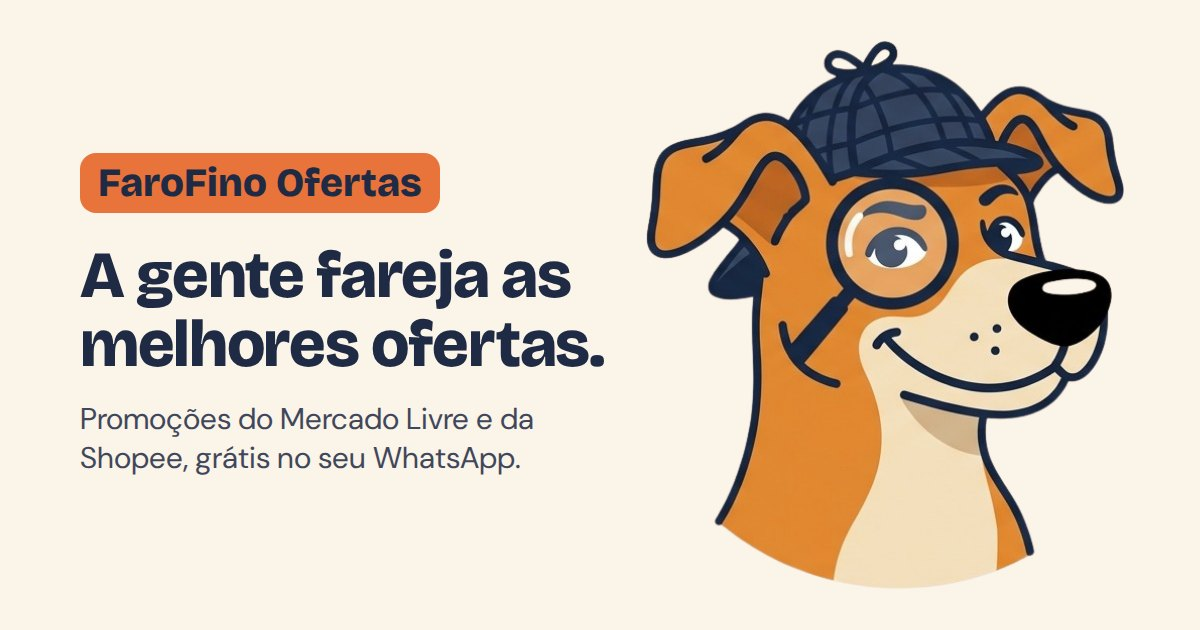
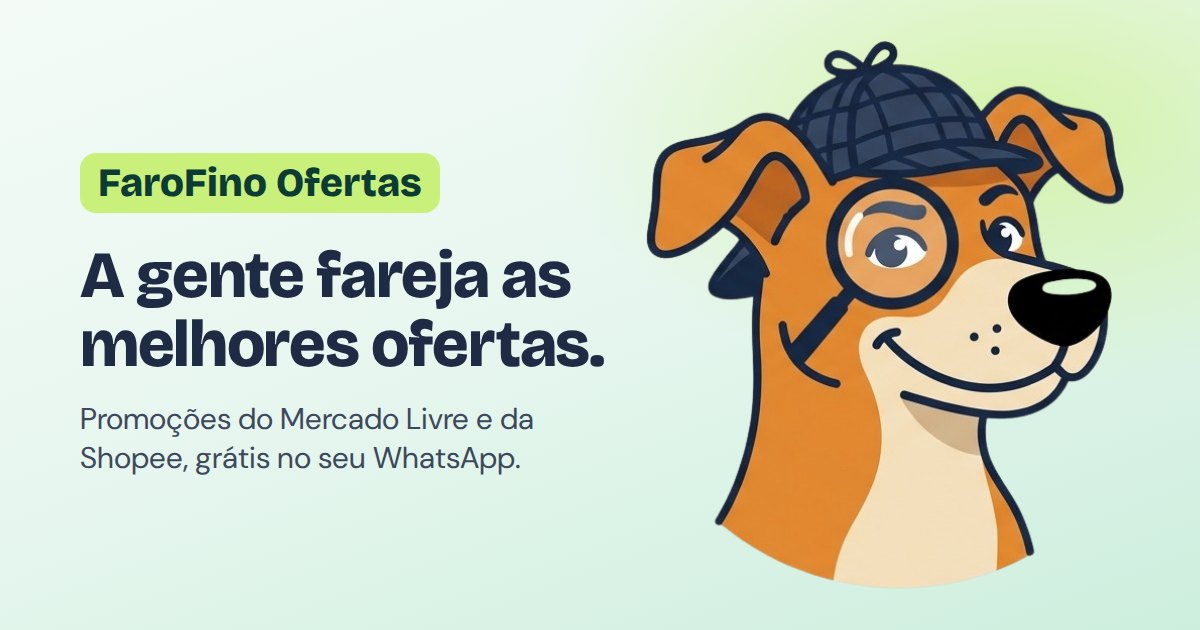
Troca a paleta para tons de verde
Primeira dobra em menta com brilho verde-limão, botões em verde-esmeralda
com texto branco, selos de desconto em verde-limão, Sem mistério e
chamada final em verde-floresta. Imagem de compartilhamento atualizada.

Claude-Session: https://claude.ai/code/session_01NMTXa2kANEwiPrjUjUNUhs

diff --git a/src/styles/global.css b/src/styles/global.css
@@ -7,24 +7,25 @@
   --green: #17806d;
 
   /* Tons extras liberados para os degradês */
-  --pink: #f2567a;
-  --amber: #f7b538;
-  --violet: #6b4fbb;
-  --indigo: #2e3170;
-  --peach: #ffe3cc;
-  --blush: #ffd6df;
-  --lilac: #eee8ff;
+  /* Família de verdes (remete a desconto / "preço caiu") */
+  --emerald-deep: #0b3b34;
+  --forest: #0e4d43;
+  --emerald: #0b5e50;
   --mint: #1fa38a;
+  --lime: #c8f07a;
+  --mint-mist: #f4fbf6;
+  --mint-pale: #e6f6ee;
+  --mint-soft: #cdeedd;
 
-  --grad-cta: linear-gradient(135deg, var(--amber) -10%, var(--orange) 45%, var(--pink) 110%);
-  --grad-warm: linear-gradient(135deg, var(--orange) 0%, var(--pink) 55%, var(--amber) 110%);
-  --grad-night: linear-gradient(140deg, var(--navy) 0%, var(--indigo) 55%, var(--violet) 110%);
-  --grad-green: linear-gradient(135deg, var(--green), var(--mint));
+  --grad-cta: linear-gradient(135deg, var(--emerald) 0%, var(--green) 55%, #1b9178 110%);
+  --grad-deep: linear-gradient(140deg, var(--emerald-deep) 0%, var(--forest) 50%, var(--green) 115%);
+  --grad-night: linear-gradient(140deg, var(--navy) 0%, var(--forest) 60%, var(--green) 125%);
+  --grad-soft: linear-gradient(145deg, var(--mint-mist) 0%, var(--mint-pale) 55%, var(--mint-soft) 100%);
 
   --shadow-sm: 0 1px 2px rgba(31, 42, 68, 0.08), 0 4px 10px -4px rgba(31, 42, 68, 0.14);
   --shadow-md: 0 2px 4px rgba(31, 42, 68, 0.06), 0 16px 32px -12px rgba(31, 42, 68, 0.28);
   --shadow-lg: 0 4px 10px rgba(31, 42, 68, 0.08), 0 32px 60px -20px rgba(31, 42, 68, 0.45);
-  --shadow-cta: 0 10px 24px -8px rgba(242, 86, 122, 0.6), 0 4px 10px -4px rgba(232, 116, 59, 0.5);
+  --shadow-cta: 0 12px 26px -8px rgba(23, 128, 109, 0.6), 0 4px 10px -4px rgba(14, 77, 67, 0.45);
 
   /* Azul-marinho com transparência, para textos secundários e linhas */
   --navy-muted: rgba(31, 42, 68, 0.78);
@@ -194,9 +195,9 @@ a {
   border: 0;
   border-radius: var(--radius);
   background: var(--grad-cta);
-  color: var(--navy);
+  color: var(--white);
   font-family: var(--font-body);
-  font-size: 1.125rem;
+  font-size: 1.1875rem;
   font-weight: 700;
   line-height: 1.2;
   text-decoration: none;
@@ -214,7 +215,7 @@ a {
   z-index: -1;
   background: radial-gradient(
     140px circle at var(--shine-x, 50%) var(--shine-y, 50%),
-    rgba(255, 255, 255, 0.45),
+    rgba(200, 240, 122, 0.45),
     transparent 70%
   );
   opacity: 0;
@@ -223,7 +224,7 @@ a {
 
 .btn:hover {
   transform: translateY(-3px);
-  box-shadow: 0 18px 32px -10px rgba(242, 86, 122, 0.7), 0 6px 14px -6px rgba(232, 116, 59, 0.6);
+  box-shadow: 0 20px 34px -10px rgba(23, 128, 109, 0.7), 0 0 0 4px rgba(200, 240, 122, 0.55);
 }
 
 .btn:hover::after {
@@ -275,51 +276,53 @@ a {
 
 .bg__overlay--hero {
   background:
-    radial-gradient(60% 50% at 85% 20%, rgba(242, 86, 122, 0.28), transparent 70%),
-    radial-gradient(50% 45% at 10% 90%, rgba(247, 181, 56, 0.3), transparent 70%),
-    linear-gradient(160deg, var(--cream) 0%, var(--peach) 55%, var(--blush) 100%);
+    radial-gradient(55% 55% at 88% 18%, rgba(200, 240, 122, 0.55), transparent 70%),
+    radial-gradient(50% 50% at 5% 95%, rgba(31, 163, 138, 0.22), transparent 70%),
+    linear-gradient(160deg, var(--mint-mist) 0%, var(--mint-pale) 50%, var(--mint-soft) 100%);
 }
 
 .bg__overlay--hero.bg__overlay--photo {
-  background: linear-gradient(100deg, rgba(251, 244, 232, 0.96) 0%, rgba(255, 227, 204, 0.88) 50%, rgba(255, 214, 223, 0.55) 100%);
+  background: linear-gradient(100deg, rgba(244, 251, 246, 0.96) 0%, rgba(230, 246, 238, 0.88) 50%, rgba(205, 238, 221, 0.55) 100%);
 }
 
 .bg__overlay--como-funciona {
   background:
-    radial-gradient(45% 55% at 90% 40%, rgba(107, 79, 187, 0.22), transparent 70%),
-    linear-gradient(180deg, var(--white) 0%, var(--lilac) 100%);
+    radial-gradient(45% 55% at 90% 40%, rgba(200, 240, 122, 0.35), transparent 70%),
+    linear-gradient(180deg, var(--white) 0%, var(--mint-pale) 100%);
 }
 
 .bg__overlay--como-funciona.bg__overlay--photo {
-  background: linear-gradient(90deg, rgba(255, 255, 255, 0.96) 0%, rgba(255, 255, 255, 0.9) 50%, rgba(238, 232, 255, 0.55) 100%);
+  background: linear-gradient(90deg, rgba(255, 255, 255, 0.96) 0%, rgba(255, 255, 255, 0.9) 50%, rgba(230, 246, 238, 0.55) 100%);
 }
 
 .bg__overlay--sem-misterio {
-  background: var(--grad-warm);
+  background:
+    radial-gradient(45% 60% at 100% 0%, rgba(200, 240, 122, 0.22), transparent 70%),
+    var(--grad-deep);
 }
 
 .bg__overlay--sem-misterio.bg__overlay--photo {
-  background: linear-gradient(120deg, rgba(232, 116, 59, 0.93) 0%, rgba(242, 86, 122, 0.88) 60%, rgba(247, 181, 56, 0.85) 110%);
+  background: linear-gradient(120deg, rgba(11, 59, 52, 0.95) 0%, rgba(14, 77, 67, 0.9) 55%, rgba(23, 128, 109, 0.82) 110%);
 }
 
 .bg__overlay--vitrine {
   background:
-    radial-gradient(40% 40% at 0% 0%, rgba(247, 181, 56, 0.25), transparent 70%),
-    linear-gradient(180deg, var(--cream) 0%, var(--peach) 100%);
+    radial-gradient(40% 40% at 0% 0%, rgba(200, 240, 122, 0.35), transparent 70%),
+    linear-gradient(180deg, var(--mint-mist) 0%, var(--mint-pale) 100%);
 }
 
 .bg__overlay--faq {
-  background: linear-gradient(180deg, var(--white) 0%, var(--blush) 140%);
+  background: linear-gradient(180deg, var(--white) 0%, var(--mint-soft) 140%);
 }
 
 .bg__overlay--final {
   background:
-    radial-gradient(50% 60% at 85% 100%, rgba(242, 86, 122, 0.35), transparent 70%),
+    radial-gradient(50% 60% at 85% 100%, rgba(200, 240, 122, 0.28), transparent 70%),
     var(--grad-night);
 }
 
 .bg__overlay--final.bg__overlay--photo {
-  background: linear-gradient(120deg, rgba(31, 42, 68, 0.95) 0%, rgba(46, 49, 112, 0.88) 55%, rgba(107, 79, 187, 0.7) 110%);
+  background: linear-gradient(120deg, rgba(31, 42, 68, 0.95) 0%, rgba(14, 77, 67, 0.88) 60%, rgba(23, 128, 109, 0.75) 120%);
 }
 
 /* Entradas ao rolar (só com JS e sem "reduzir movimento") */
@@ -386,7 +389,7 @@ a {
   display: block;
   margin-top: 0.12em;
   text-decoration: underline;
-  text-decoration-color: var(--orange);
+  text-decoration-color: var(--mint);
   text-decoration-thickness: 0.14em;
   text-underline-offset: 0.1em;
   text-decoration-skip-ink: none;
@@ -510,7 +513,7 @@ a {
   height: 100%;
   padding: 28px 12px 12px;
   border-radius: 11px;
-  background: linear-gradient(145deg, var(--cream) 0%, var(--peach) 60%, var(--blush) 100%);
+  background: var(--grad-soft);
   color: var(--navy-muted);
   font-size: 0.75rem;
   font-weight: 500;
@@ -524,9 +527,9 @@ a {
   left: 12px;
   padding: 1px 7px;
   border-radius: 6px;
-  background: var(--grad-green);
-  color: var(--white);
-  box-shadow: 0 4px 10px -4px rgba(23, 128, 109, 0.7);
+  background: var(--lime);
+  color: var(--emerald-deep);
+  box-shadow: 0 4px 10px -4px rgba(14, 77, 67, 0.55);
   font-size: 0.8125rem;
   font-weight: 700;
   line-height: 1.5;
@@ -618,7 +621,7 @@ a {
 
 /* Destaque (primeiro card da vitrine) */
 .offer--featured {
-  background: var(--grad-night);
+  background: var(--grad-deep);
   color: var(--cream);
 }
 
@@ -678,11 +681,11 @@ a {
   font-weight: 800;
   font-size: 4rem;
   line-height: 0.8;
-  background: var(--grad-cta);
+  background: linear-gradient(160deg, var(--forest) 0%, var(--green) 50%, var(--mint) 100%);
   -webkit-background-clip: text;
   background-clip: text;
   color: transparent;
-  filter: drop-shadow(0 6px 10px rgba(242, 86, 122, 0.3));
+  filter: drop-shadow(0 6px 10px rgba(23, 128, 109, 0.3));
 }
 
 .how__step-title {
@@ -708,7 +711,7 @@ a {
   border-radius: 40px;
   background: var(--grad-night);
   box-shadow:
-    0 50px 80px -30px rgba(107, 79, 187, 0.55),
+    0 50px 80px -30px rgba(23, 128, 109, 0.55),
     0 24px 40px -20px rgba(31, 42, 68, 0.6),
     inset 0 0 0 2px rgba(255, 255, 255, 0.08);
   transform: perspective(1200px) rotate(2deg) rotateX(var(--tilt-x, 0deg)) rotateY(var(--tilt-y, 0deg));
@@ -734,7 +737,7 @@ a {
   align-items: center;
   gap: 8px;
   padding: 22px 12px 10px;
-  background: var(--grad-night);
+  background: var(--grad-deep);
   color: var(--cream);
 }
 
@@ -894,7 +897,7 @@ a {
   height: 92px;
   margin-bottom: 6px;
   border-radius: 8px;
-  background: linear-gradient(145deg, var(--cream), var(--peach) 60%, var(--blush));
+  background: var(--grad-soft);
   color: var(--navy-muted);
   font-size: 0.6875rem;
 }
@@ -933,6 +936,11 @@ a {
   position: relative;
   overflow: hidden;
   padding-block: 196px 72px;
+  color: var(--white);
+}
+
+.trust :focus-visible {
+  outline-color: var(--white);
 }
 
 .trust__mascot {
@@ -957,12 +965,16 @@ a {
 
 .trust__list {
   display: grid;
-  border-top: 2px solid var(--navy);
+  border-top: 2px solid rgba(200, 240, 122, 0.7);
+}
+
+.trust__item-title {
+  color: var(--lime);
 }
 
 .trust__item {
   padding-block: 18px;
-  border-bottom: 2px solid var(--navy);
+  border-bottom: 2px solid rgba(200, 240, 122, 0.7);
   transition: transform 0.3s cubic-bezier(0.2, 0.8, 0.2, 1);
 }
 
@@ -1072,6 +1084,7 @@ a {
 .faq__item[open] .faq__icon {
   transform: rotate(135deg);
   background: var(--grad-cta);
+  color: var(--white);
 }
 
 .faq__item[open] p {
@@ -1125,14 +1138,14 @@ a {
   right: -30px;
   bottom: -70px;
   width: 220px;
-  filter: drop-shadow(-12px 10px 30px rgba(242, 86, 122, 0.45));
+  filter: drop-shadow(-12px 10px 30px rgba(200, 240, 122, 0.35));
 }
 
 .final__title {
   width: fit-content;
   max-width: 100%;
   padding: 0 0.1em 0.06em 0;
-  background: linear-gradient(100deg, var(--cream) 30%, var(--amber) 70%, var(--pink) 110%);
+  background: linear-gradient(100deg, var(--cream) 30%, var(--lime) 70%, #8fe0bd 110%);
   -webkit-background-clip: text;
   background-clip: text;
   color: transparent;

diff --git a/README.md b/README.md
@@ -36,7 +36,7 @@ O site otimiza o tamanho sozinho. Sem a foto, a seção mostra só o degradê.
 | --- | --- | --- |
 | `hero.jpg` | Primeira dobra (atrás do título e do carrossel) | 1920×1080 |
 | `como-funciona.jpg` | Como funciona (atrás do celular) | 1920×1200 |
-| `sem-misterio.jpg` | Sem mistério (fica atrás de um degradê laranja/rosa) | 1920×1200 |
-| `final.jpg` | Chamada final (fica atrás de um degradê azul/violeta) | 1920×1080 |
+| `sem-misterio.jpg` | Sem mistério (fica atrás de um degradê verde-escuro) | 1920×1200 |
+| `final.jpg` | Chamada final (fica atrás de um degradê azul-marinho/verde) | 1920×1080 |
 
 Também dá para usar `vitrine.jpg` e `faq.jpg`, mas essas seções ficam melhores só com o degradê.
